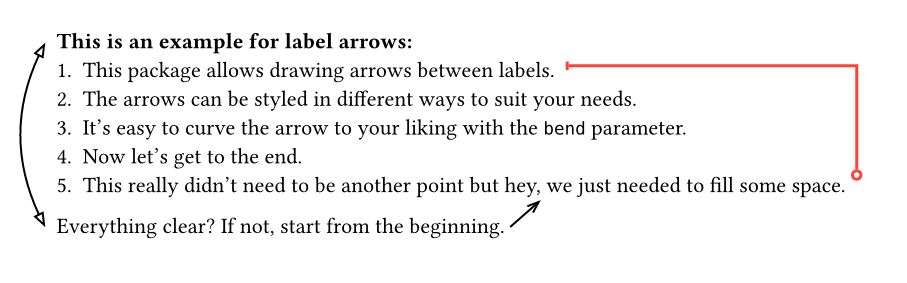
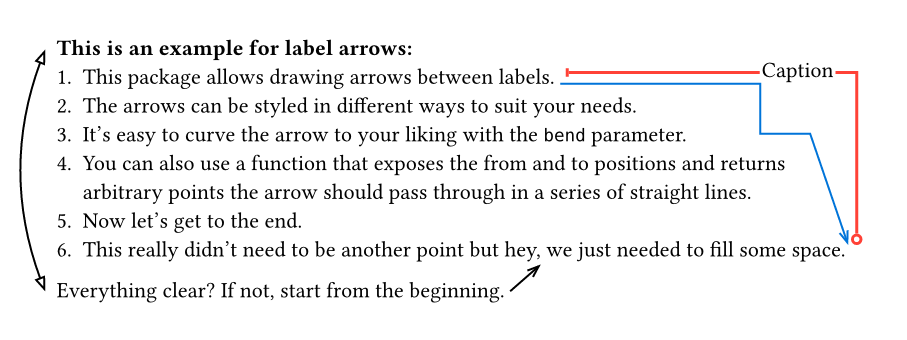
Updated files for new version

diff --git a/README.md b/README.md
@@ -3,9 +3,9 @@ Draw and style arrows between labels.
 
 ## Example
 ```typst
-#import "@preview/larrow:1.1.0": *
+#import "@local/larrow:1.2.0": *
 
-#set page(width: 16cm, height: 5cm, margin: (left: 1cm))
+#set page(width: 16cm, height: 6cm, margin: (left: 1cm))
 
 #let lal = arrow-label.with(dx: -2mm, dy: 1mm)
 
@@ -13,6 +13,9 @@ Draw and style arrows between labels.
 + This package allows drawing arrows between labels. ~ <start-1>
 + The arrows can be styled in different ways to suit your needs.
 + It's easy to curve the arrow to your liking with the `bend` parameter.
++ You can also use a function that exposes the from and to positions and
+  returns arbitrary points the arrow should pass through in a series of
+  straight lines.
 + Now let's get to the end.
 + This really didn't need to be another point but hey,#al(<end-2>) we just
   needed to fill some space. #arrow-label(<end-1>)
@@ -21,7 +24,11 @@ Draw and style arrows between labels.
 ~ <start-2>
 
 #label-arrow(<start-1>, <end-1>, bend: "-|", tip: "o", from-tip: "|",
-             stroke: 1.5pt + red, both-offset: (1mm, 2mm))
+             stroke: 1.5pt + red, both-offset: (1mm, 2mm), caption: [Caption])
+#label-arrow(<start-1>, <end-1>, bend: ((fx, fy), (tx, ty)) => (
+        (fx + 100, fy), (fx + 100, fy - 25), (fx + 125, fy - 25),
+    ), stroke: blue, to-offset: (-0.5mm, 2mm)
+)
 #larw(<start-left>, <end-left>, bend: -25, both-tip: ">")
 #label-arrow(<start-2>, <end-2>, from-offset: (0pt, 3pt),
              to-offset: (0pt, -4pt))
@@ -30,13 +37,13 @@ Draw and style arrows between labels.
 ![Example output of larrow](./example/example.png)
 
 ## Quick overview
-- Import via `#import "@preview/larrow:1.1.0"`.
+- Import via `#import "@preview/larrow:1.2.0"`.
 - Use `label-arrow(<from-lbl>, <to-lbl>)` to draw an arrow between two labels.
 - Use the `bend` parameter to curve the arrow. Positive values make a
   right-handed curve, negative ones a left-handed one. `"|-"` and `"-|"` will
   make perpendicular straight lines for the arrow. For complex paths, it also
   accepts a function that takes the start and end points and returns a list of
-  intermediate points (of the form `((fx, fy), (tx, ty)) => ((ax, ay), ...)`)
+  intermediate points (of the form `((fx, fy), (tx, ty)) => ((ax, ay), ...)`).
 - Create labels with inbuilt position offsets with
   `arrow-label(<lbl>, dx: 2mm, dy: 4mm)`. Use `#al()` as a shorthand.
 - Add text to labels by passing `caption`, and style it with `caption-options`.
@@ -47,7 +54,7 @@ Draw and style arrows between labels.
 
 ## Usage
 ### Import
-`#import "@preview/larrow:1.1.0": *`
+`#import "@preview/larrow:1.2.0": *`
 
 ### Functionality
 The package makes available two key functions. `label-arrow()` draws arrows
@@ -162,7 +169,7 @@ To set default values or make custom variants with defaults, you can use `#let`
 instead to overwrite them with given parameter values:
 
 ```typst
-#import "@preview/larrow:1.1.0": *
+#import "@preview/larrow:1.2.0": *
 
 // Make the default tip for arrows a triangle.
 #let label-arrow = label-arrow.with(tip: ">")
@@ -196,7 +203,7 @@ If you want to use the package locally, you have two options:
    [official documentation](https://github.com/typst/packages?tab=readme-ov-file#local-packages)
    for where to find and create a namespace. Then simply import the package
    from that namespace. The following example assumes a namespace named `local`
-   to be used: `#import "@local/larrow:1.1.0": *`
+   to be used: `#import "@local/larrow:1.2.0": *`
 
    This makes the package available anywhere on your system via the namespace
    import.
